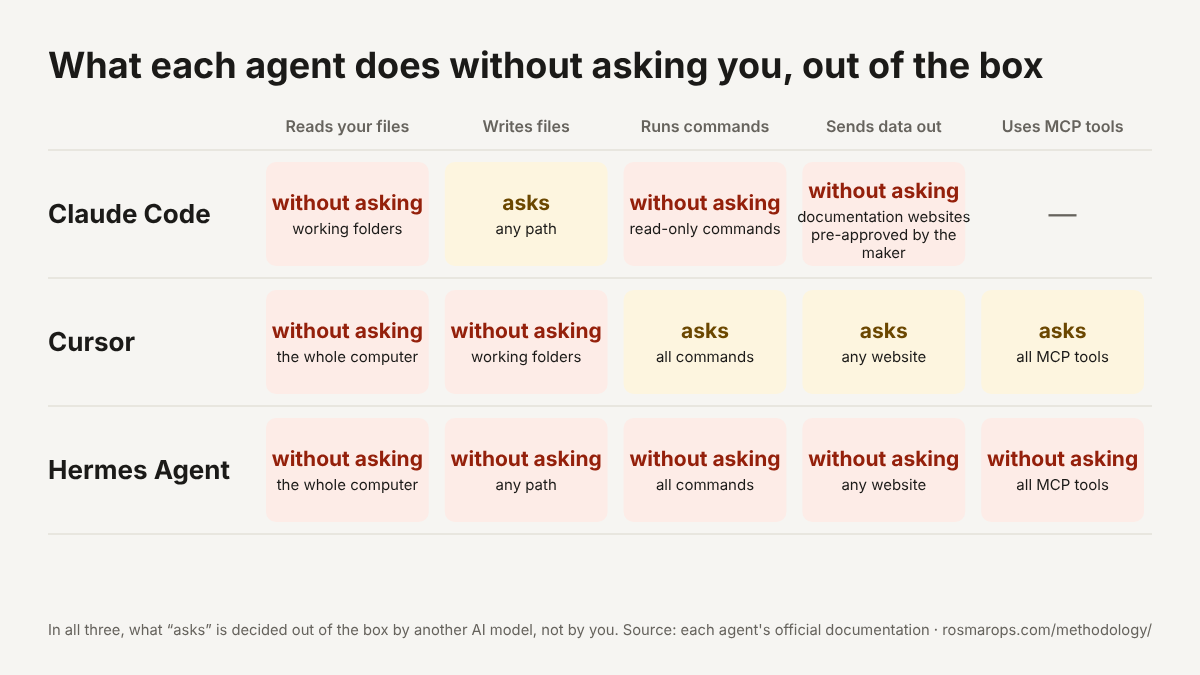
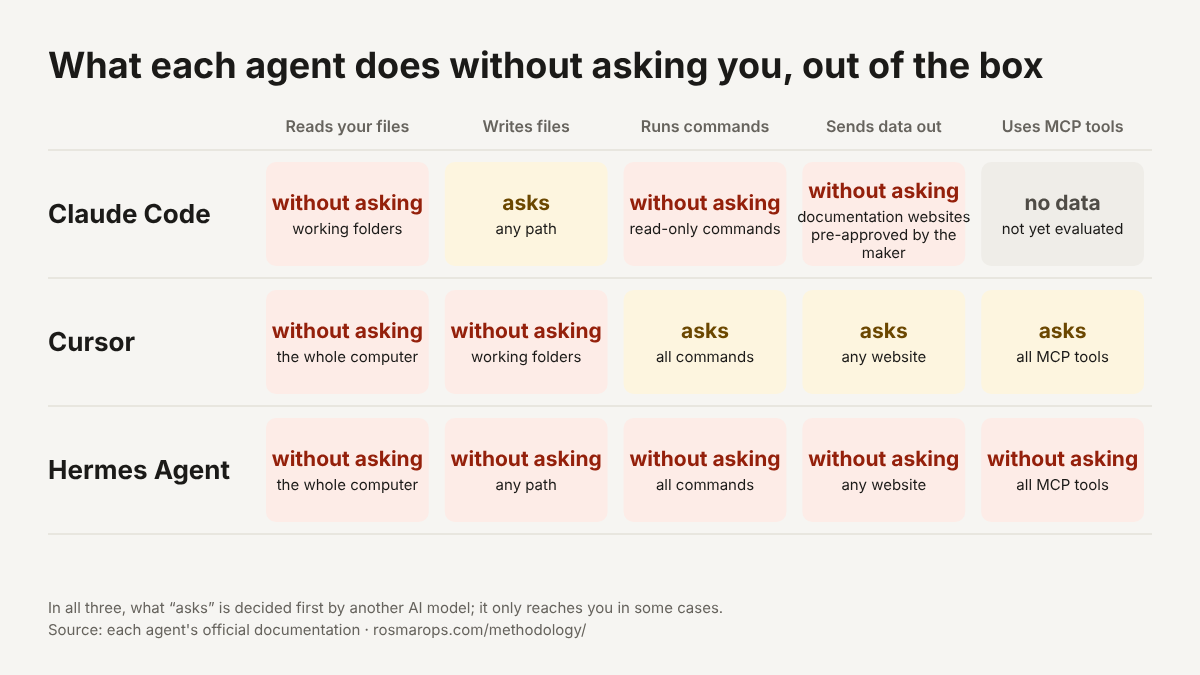
GTM-78: advisor corrections before publishing
Two-line footer, Claude Code MCP cell as 'no data / not yet evaluated',
corrected 'asks' line in LinkedIn ES and EN, and textos-publicar.md
without the source brackets.

Claude-Session: https://claude.ai/code/session_018sMZCmEziPqFxw8ZYwBeHp

diff --git a/marketing/posts/2026-11-03-de-fabrica/make_chart.py b/marketing/posts/2026-11-03-de-fabrica/make_chart.py
@@ -22,23 +22,26 @@ BREADTH = ["whole_system", "any_path", "any_destination", "all_commands", "all_m
 
 # Design tokens of rosmarops.com (light theme): site/index.html and the sample report's grade colours.
 T = {"bg": "#F6F5F2", "card": "#FFFFFF", "ink": "#1B1A18", "muted": "#66635D", "line": "#E3E0D8",
-     "red": "#94200B", "red_bg": "#FDECE7", "amb": "#6B4700", "amb_bg": "#FDF5DF", "grey": "#4D4A45", "grey_bg": "#F0EEE8"}
+     "red": "#94200B", "red_bg": "#FDECE7", "amb": "#6B4700", "amb_bg": "#FDF5DF", "grey": "#4D4A45", "grey_bg": "#F0EEE8",
+     "nodata": "#4F4C46", "nodata_bg": "#EFEDE8"}
 FONT = "system-ui,-apple-system,'Segoe UI',Roboto,Helvetica,Arial,sans-serif"
 
 TEXT = {
     "es": {
         "title": "Qué deja hacer cada agente sin preguntarte, de fábrica",
         "cols": ["Lee tus ficheros", "Escribe ficheros", "Ejecuta comandos", "Saca datos fuera", "Usa herramientas MCP"],
-        "word": {"allow": "sin preguntar", "ask": "pregunta", "deny": "bloqueado"},
-        "footer": "En los tres, lo que “pregunta” lo decide de fábrica otro modelo de IA, no tú. "
-                  "Fuente: documentación oficial de cada agente · rosmarops.com/es/metodologia/",
+        "word": {"allow": "sin preguntar", "ask": "pregunta", "deny": "bloqueado", "no_data": "sin dato"},
+        "no_data_scope": "aún no evaluado",
+        "footer": ["En los tres, lo que «pregunta» lo decide primero otro modelo de IA; a ti solo te llega en algunos casos.",
+                   "Fuente: documentación oficial de cada agente · rosmarops.com/es/metodologia/"],
     },
     "en": {
         "title": "What each agent does without asking you, out of the box",
         "cols": ["Reads your files", "Writes files", "Runs commands", "Sends data out", "Uses MCP tools"],
-        "word": {"allow": "without asking", "ask": "asks", "deny": "blocked"},
-        "footer": "In all three, what “asks” is decided out of the box by another AI model, not by you. "
-                  "Source: each agent's official documentation · rosmarops.com/methodology/",
+        "word": {"allow": "without asking", "ask": "asks", "deny": "blocked", "no_data": "no data"},
+        "no_data_scope": "not yet evaluated",
+        "footer": ["In all three, what “asks” is decided first by another AI model; it only reaches you in some cases.",
+                   "Source: each agent's official documentation · rosmarops.com/methodology/"],
     },
 }
 
@@ -59,7 +62,8 @@ def cells():
         for action in ACTIONS:
             caps = [c for c in d["capabilities"] if c["action"] == action]
             if not caps:
-                row["cells"].append({"action": action, "default": None, "scope": None, "capability": None, "url": None})
+                row["cells"].append({"action": action, "value": "no_data", "scope": None, "capability": None,
+                                     "source": None})
                 continue
             best = max(caps, key=lambda c: (RANK[c["default"]], -BREADTH.index(c["scope"])))
             row["cells"].append({"action": action, "default": best["default"], "scope": best["scope"],
@@ -102,25 +106,25 @@ def svg(lang, rows):
         for k, c in enumerate(row["cells"]):
             x0 = left + label_w + k * col_w + 8
             cx = x0 + (col_w - 16) / 2
-            if c["default"] is None:
-                s.append(f'<text x="{cx:.1f}" y="{y + row_h / 2 + 10}" font-size="28" fill="{T["muted"]}" '
-                         f'text-anchor="middle">—</text>')
-                continue
+            value = c.get("value") or c["default"]
             fg, bg = {"allow": (T["red"], T["red_bg"]), "ask": (T["amb"], T["amb_bg"]),
-                      "deny": (T["grey"], T["grey_bg"])}[c["default"]]
+                      "deny": (T["grey"], T["grey_bg"]), "no_data": (T["nodata"], T["nodata_bg"])}[value]
             s.append(f'<rect x="{x0:.1f}" y="{y + 12}" width="{col_w - 16:.1f}" height="{row_h - 24}" rx="10" fill="{bg}"/>')
-            label = scope_label(lang, c["scope"])
-            scope = wrap(label[0].lower() + label[1:], 22)
+            if value == "no_data":
+                scope = wrap(t["no_data_scope"], 22)
+            else:
+                label = scope_label(lang, c["scope"])
+                scope = wrap(label[0].lower() + label[1:], 22)
             y_word = y + row_h / 2 - 6 * len(scope) + 2
             s.append(f'<text x="{cx:.1f}" y="{y_word:.1f}" font-size="21" font-weight="700" fill="{fg}" '
-                     f'text-anchor="middle">{e(t["word"][c["default"]])}</text>')
+                     f'text-anchor="middle">{e(t["word"][value])}</text>')
             for n, line in enumerate(scope):
                 s.append(f'<text x="{cx:.1f}" y="{y_word + 24 + n * 18:.1f}" font-size="15" fill="{T["ink"]}" '
                          f'text-anchor="middle">{e(line)}</text>')
     yb = top + len(rows) * row_h
     s.append(f'<line x1="{left}" y1="{yb}" x2="{W - left}" y2="{yb}" stroke="{T["line"]}" stroke-width="1.5"/>')
-    s.append(f'<text x="{left}" y="{H - 40}" font-size="15" fill="{T["muted"]}" textLength="{W - 2 * left}" '
-             f'lengthAdjust="spacingAndGlyphs">{e(t["footer"])}</text>')
+    for n, line in enumerate(t["footer"]):  # two lines: the second on the old baseline, the first 22 px above
+        s.append(f'<text x="{left}" y="{H - 40 - 22 * (1 - n)}" font-size="15" fill="{T["muted"]}">{e(line)}</text>')
     s.append("</svg>")
     return "\n".join(s) + "\n"
 

diff --git a/marketing/posts/2026-11-03-de-fabrica/textos-publicar.md b/marketing/posts/2026-11-03-de-fabrica/textos-publicar.md
@@ -1,0 +1,87 @@
+# «De fábrica»: textos (GTM-78)
+
+Canal recomendado primero: LinkedIn en castellano, porque es donde ya tienes el post de RosmarOps y este lo continúa con un dato que se entiende sin instalar nada.
+
+---
+
+## LinkedIn · ES (enlace al final)
+
+En los tres agentes que evalúa RosmarOps, Claude Code, Cursor y Hermes Agent, el modo con el que arrancan de fábrica deja que otro modelo de IA decida lo que, si no, te preguntarían a ti.
+
+He puesto en un gráfico qué hace cada uno sin preguntarte, según su documentación oficial: leer ficheros, escribirlos, ejecutar órdenes, sacar datos fuera y usar herramientas MCP.
+
+Claude Code lee tus carpetas de trabajo y ejecuta órdenes de solo lectura sin preguntar; para editar ficheros, pregunta.
+
+Cursor lee de todo el ordenador desde su terminal aislado y escribe en las carpetas de trabajo sin preguntar; las órdenes, internet y MCP los pregunta.
+
+Hermes Agent hace las cinco cosas sin preguntar; solo las órdenes que encajan con un patrón peligroso pasan antes por otro modelo.
+
+Y donde el gráfico dice «pregunta», de fábrica lo decide primero otro modelo de IA; a ti solo te llega en algunos casos.
+
+Es un mapa de lo que permite la configuración de fábrica, no un veredicto sobre ningún agente.
+
+Si trabajas con agentes: ¿sabías con qué modo arranca el tuyo y quién responde cuando dice que pregunta?
+
+https://rosmarops.com/es/metodologia/
+
+## LinkedIn · ES (enlace en el primer comentario)
+
+El mismo texto, sin la última línea. Primer comentario:
+
+Cómo leemos cada fuente y qué significa cada casilla: https://rosmarops.com/es/metodologia/
+
+---
+
+## X · ES · post suelto (con chart.png)
+
+En Claude Code, Cursor y Hermes Agent, el modo de fábrica deja que otro modelo de IA decida lo que, si no, te preguntarían a ti. Esto es lo que hace cada uno sin preguntarte, según su documentación oficial. https://rosmarops.com/es/metodologia/
+
+## X · ES · hilo de 3 (alternativa; chart.png en el primero)
+
+1/ En los tres agentes que evalúa RosmarOps (Claude Code, Cursor y Hermes Agent), el modo con el que arrancan deja que otro modelo de IA decida lo que, si no, te preguntarían a ti.
+
+2/ Sin preguntar, de fábrica: Claude Code lee tus carpetas de trabajo y ejecuta órdenes de solo lectura. Cursor lee todo el ordenador desde su terminal y escribe en el proyecto. Hermes Agent lee, escribe, ejecuta, sale a internet y usa MCP.
+
+3/ Es un mapa de lo que permite la configuración de fábrica, no un veredicto. Cómo lo leemos, fuente a fuente: https://rosmarops.com/es/metodologia/
+
+---
+
+## LinkedIn · EN (link at the end)
+
+In the three agents RosmarOps evaluates, Claude Code, Cursor and Hermes Agent, the mode they start in out of the box lets another AI model decide what they would otherwise ask you.
+
+I put in one chart what each of them does without asking you, according to its official documentation: reading files, writing them, running commands, sending data out and using MCP tools.
+
+Claude Code reads your working folders and runs read-only commands without asking; to edit files, it asks.
+
+Cursor reads the whole computer from its sandboxed terminal and writes in your working folders without asking; commands, the internet and MCP, it asks.
+
+Hermes Agent does all five without asking; only commands that match a dangerous pattern go through another model first.
+
+And where the chart says "asks", out of the box another AI model decides first; it only reaches you in some cases.
+
+It is a map of what the factory configuration allows, not a verdict on any agent.
+
+If you work with agents: did you know which mode yours starts in, and who answers when it says it asks?
+
+https://rosmarops.com/methodology/
+
+## LinkedIn · EN (link in the first comment)
+
+The same text without the last line. First comment:
+
+How we read each source and what each cell means: https://rosmarops.com/methodology/
+
+---
+
+## X · EN · single post (with chart.en.png)
+
+In Claude Code, Cursor and Hermes Agent, the factory mode lets another AI model decide what they would otherwise ask you. This is what each one does without asking, according to its official documentation. https://rosmarops.com/methodology/
+
+## X · EN · 3-post thread (alternative; chart.en.png on the first)
+
+1/ In the three agents RosmarOps evaluates (Claude Code, Cursor and Hermes Agent), the mode they start in lets another AI model decide what they would otherwise ask you.
+
+2/ Without asking, out of the box: Claude Code reads your working folders and runs read-only commands. Cursor reads the whole computer from its terminal and writes in your project. Hermes Agent reads, writes, runs commands, goes online and uses MCP.
+
+3/ It is a map of what the factory configuration allows, not a verdict. How we read it, source by source: https://rosmarops.com/methodology/

diff --git a/marketing/posts/2026-11-03-de-fabrica/textos.md b/marketing/posts/2026-11-03-de-fabrica/textos.md
@@ -18,7 +18,7 @@ Cursor lee de todo el ordenador desde su terminal aislado y escribe en las carpe
 
 Hermes Agent hace las cinco cosas sin preguntar; solo las órdenes que encajan con un patrón peligroso pasan antes por otro modelo. [hermes-agent.json cap-read-shell, cap-write-tools, cap-exec (note), cap-network, cap-mcp]
 
-Y donde el gráfico dice «pregunta», de fábrica no te pregunta a ti: lo decide otro modelo. [default_mode.who_decides = another_model en los tres]
+Y donde el gráfico dice «pregunta», de fábrica lo decide primero otro modelo de IA; a ti solo te llega en algunos casos. [default_mode.who_decides = another_model en los tres]
 
 Es un mapa de lo que permite la configuración de fábrica, no un veredicto sobre ningún agente.
 
@@ -62,7 +62,7 @@ Cursor reads the whole computer from its sandboxed terminal and writes in your w
 
 Hermes Agent does all five without asking; only commands that match a dangerous pattern go through another model first. [hermes-agent.json cap-read-shell, cap-write-tools, cap-exec (note), cap-network, cap-mcp]
 
-And where the chart says "asks", out of the box it does not ask you: another model decides. [default_mode.who_decides = another_model in all three]
+And where the chart says "asks", out of the box another AI model decides first; it only reaches you in some cases. [default_mode.who_decides = another_model in all three]
 
 It is a map of what the factory configuration allows, not a verdict on any agent.
 
